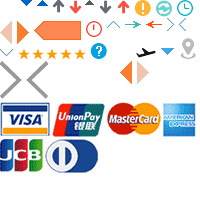
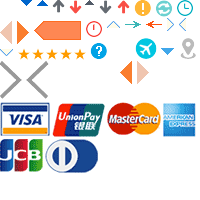
gai flight_img

Changed region(s): [[0.66, 0.18, 0.78, 0.3]]

diff --git a/static/css/b2g_flight.css b/static/css/b2g_flight.css
@@ -247,10 +247,10 @@ label input[type="radio"],label input[type="checkbox"]{ border:0; vertical-align
 .backFlightImg{ background:url(../images/b2g/smallImg.png) no-repeat -146px -21px;}
 .moneryInfo{ background:#e7fafe; border:1px dashed #93ccf8; padding:7px 5px 0; width:180px; margin:10px 0; position:relative;}
 .boatList td{ line-height:20px;}
-.chengMan{ margin-left:30px; margin-bottom:8px;}
+.chengMan{ margin-left:30px; margin-bottom:10px;}
 .priceCont em{ color:#f94037;}
 .priceCont b{ color:#f94037; font-size:14px;}
-.airplane{ display:inline-block; vertical-align:middle; background:url(../images/b2g/smallImg.png) no-repeat -136px -48px; width:20px; height:10px; position:absolute; left:3%; top:48%;}
+.airplane{ display:inline-block; vertical-align:middle; background:url(../images/b2g/smallImg.png) no-repeat -136px -38px; width:22px; height:21px; position:absolute; left:3%; top:40%;}
 .orderTotalPrices{ padding:10px 0; text-align:center; border-top:1px solid #c8c8c8; background:#e0f5fa; margin:0 6px;}
 .orderTotalPrices b{ font-size:16px; color:#333333;}
 .orderTotalPrices em,.orderTotalPrices i{ color:#f92e2f; font-weight:bold;}
